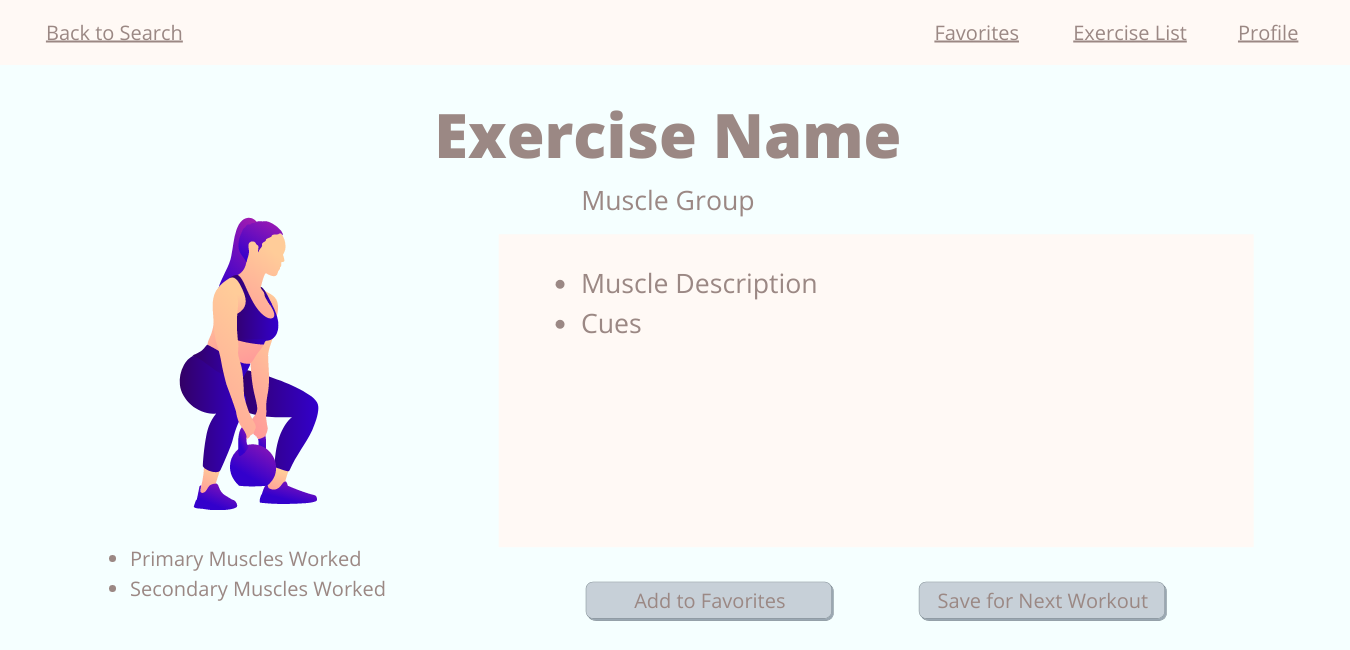
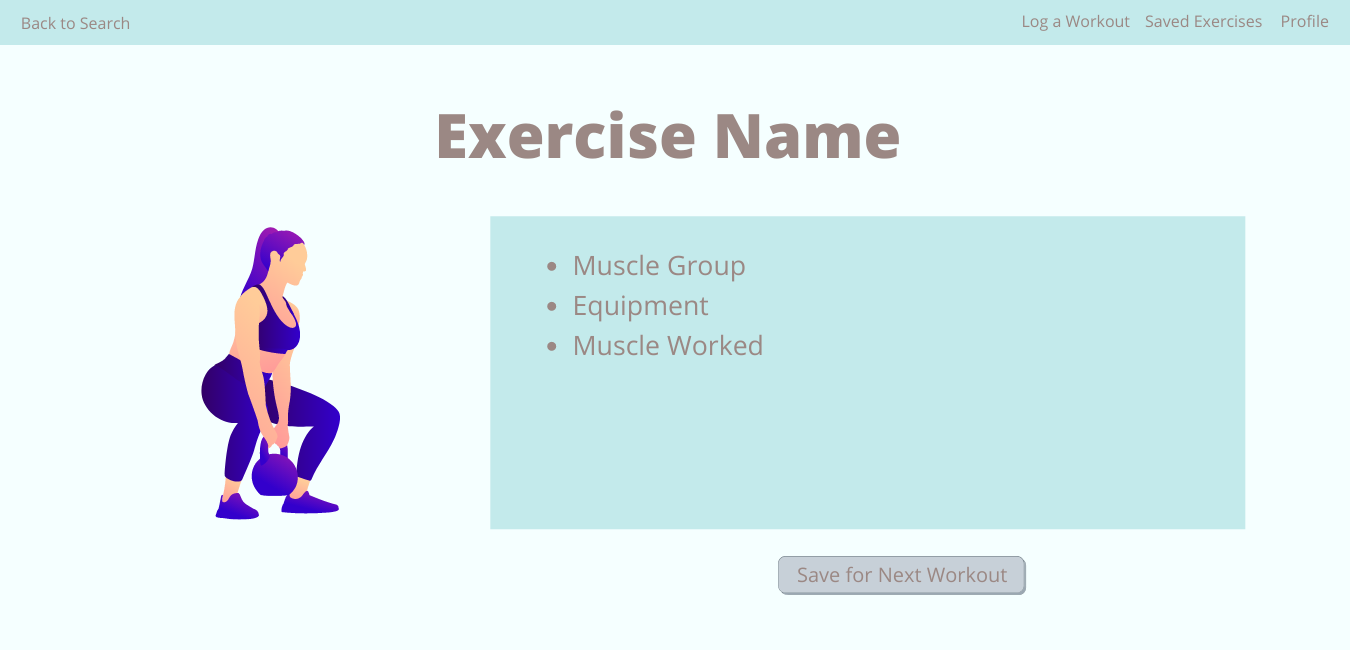
updating wireframes

diff --git a/static/js/app.js b/static/js/app.js
@@ -1,0 +1,3 @@
+$('.carousel').carousel({
+    interval: 2000
+  })

diff --git a/readme.md b/readme.md
@@ -42,13 +42,17 @@ https://heavy-things-tracker.herokuapp.com/
 * Welcome Page
 ![Wireframe](./pitch-images/welcome-page.png)
 * User Profile
-![Wireframe](./pitch-images/user-profile.png)
+![Wireframe](./pitch-images/profile.png)
 * Search
 ![Wireframe](./pitch-images/search.png)
-* Same Layout for Results and Saved Lists
-![Wireframe](./pitch-images/list-page.png)
+* Similar Layout for Search Results and Saved Lists
+![Wireframe](./pitch-images/search-saved-list.png)
 * Detailed Exercise
 ![Wireframe](./pitch-images/detailed-exercise.png)
+* Similar Layout for Creating/Editing Workouts
+![Wireframe](./pitch-images/log-workout.png)
+* List of All Logged Workouts
+![Wireframe](./pitch-images/workout-list.png)
 
 ## API
 * ExerciseDB
